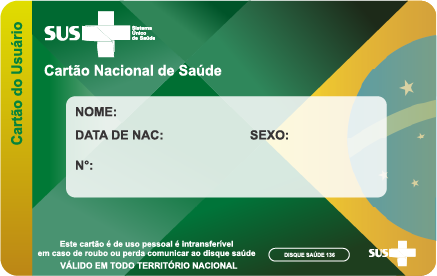
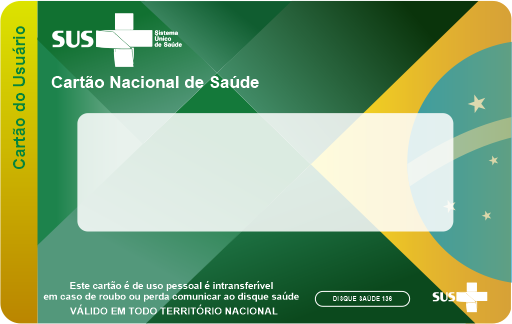
Ajuste card

diff --git a/public/assets/css/mymev3.css b/public/assets/css/mymev3.css
@@ -1039,20 +1039,20 @@ main.myme footer img{
     }
 
     #susCard suscard span#sus-nome{
-        left: 87px;
-        top: -14px;
+        left: 55px;
+        top: -10px;
     }
     #susCard suscard span#sus-nascimento{
-        right: 132px;
-        top: 1px;
+        left: 55px;
+        top: 10px;
     }
     #susCard suscard span#sus-sexo{
-        left: 201px;
-        top: 2px;
+        right: 90px;
+        top: 10px;
     }
     #susCard suscard span#sus-numero{
-        left: 66px;
-        bottom: -18px;
+        left: 55px;
+        bottom: -25px;
     }
 }
 
@@ -1066,19 +1066,19 @@ main.myme footer img{
     }
 
     #susCard suscard span#sus-nome{
-        left: 120px;
-        top: -25px;
+        left: 80px;
+        top: -15px;
     }
     #susCard suscard span#sus-nascimento{
-        left: 168px;
-        top: -2px;
+        left: 80px;
+        top: 10px;
     }
     #susCard suscard span#sus-sexo{
-        right: 70px;
-        top: -2px;
+        right: 95px;
+        top: 10px;
     }
     #susCard suscard span#sus-numero{
-        left: 95px;
-        bottom: -29px;
+        left: 80px;
+        bottom: -35px;
     }
 }

diff --git a/public/assets/js/mymev3.js b/public/assets/js/mymev3.js
@@ -562,10 +562,10 @@ const formManager = {
                 $(item).click(({target}) => {
                     target = $(target).closest("div.meu, div.my")[0];
 
-                   $("#sus-nome").text($(target).find('.field-nome input').val());
-                   $("#sus-nascimento").text($(target).find('.field-nascimento input').val())
-                   $("#sus-sexo").text('-')
-                   $("#sus-numero").text($(target).find('.field-sus-numero input').val())
+                   $("#sus-nome").text("NOME: "+$(target).find('.field-nome input').val());
+                   $("#sus-nascimento").text("NASCIMENTO: "+$(target).find('.field-nascimento input').val())
+                   $("#sus-sexo").text('SEXO: -')
+                   $("#sus-numero").text("Nº: "+$(target).find('.field-sus-numero input').val())
 
                    $("#susCard").modal("show");
                 })
